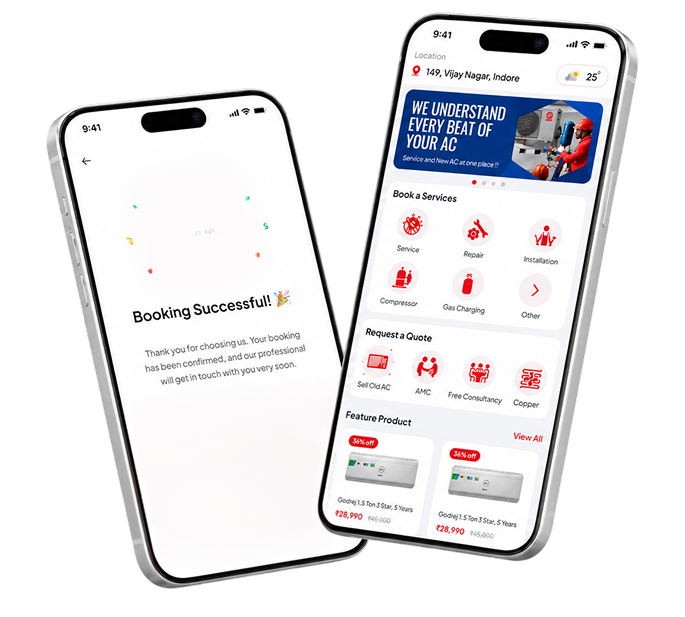
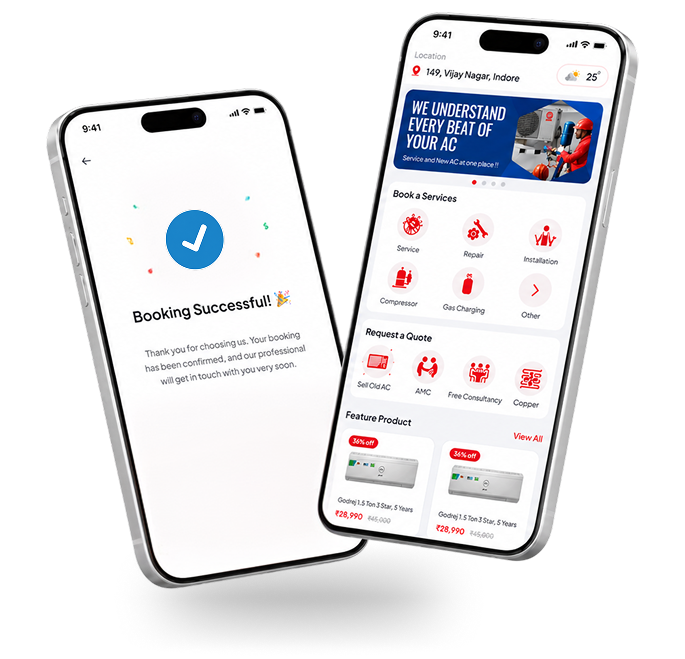
feat(contact us): redesign contact us section and make it responsive

diff --git a/src/components/organisms/CTASection.tsx b/src/components/organisms/CTASection.tsx
@@ -1,103 +1,174 @@
 "use client";
 
-import Image from "next/image";
-import { Input } from "@/components/atoms/Input";
-import { Button } from "@/components/atoms/Button";
-import { SectionHeader } from "@/components/molecules/SectionHeader";
-import { ASSETS } from "@/lib/data";
-import { useContactForm } from "@/hooks/useContactForm";
+import { useState } from "react";
 import { useInView } from "@/hooks/useInView";
+
+/* ── Figma assets (replace with /public paths before go-live) ── */
+const IMG_BG =
+  "https://www.figma.com/api/mcp/asset/46ebe8f4-5ece-4fff-aaa0-cb6bb324349f";
+const IMG_AC_UNIT =
+  "https://www.figma.com/api/mcp/asset/6f2fcfe7-202f-4902-aaff-f1c6c396381c";
+const ICON_USER =
+  "https://www.figma.com/api/mcp/asset/63c6e436-5fd4-4825-ad26-2cdbdb3bc7cc";
+const ICON_PHONE =
+  "https://www.figma.com/api/mcp/asset/8848dc26-5089-41fe-9f06-d85bb41055ae";
+const ICON_MAIL =
+  "https://www.figma.com/api/mcp/asset/87db6ebf-360f-4f8f-bc71-4a92b4af2e8e";
 
 export function CTASection() {
   const { ref, isInView } = useInView<HTMLElement>({ threshold: 0.1 });
-  const { data, loading, success, error, setField, submit } = useContactForm();
+  const [form, setForm] = useState({ name: "", phone: "", email: "" });
+  const [submitted, setSubmitted] = useState(false);
+
+  const handleSubmit = (e: React.FormEvent) => {
+    e.preventDefault();
+    setSubmitted(true);
+    setTimeout(() => setSubmitted(false), 3000);
+  };
 
   return (
     <section
       id="contact"
       ref={ref}
-      aria-label="Contact us"
-      className="relative w-full min-h-[600px] overflow-hidden"
+      aria-label="Contact Us"
+      className="relative w-full overflow-hidden bg-[#0d0d0d]"
+      style={{ aspectRatio: "16 / 9", minHeight: "clamp(400px, 80vh, 900px)" }}
     >
-      {/* Background */}
-      <Image
-        src={ASSETS.ctaBg}
-        alt="Contact section background"
-        fill
-        sizes="100vw"
-        className="object-cover object-center"
-      />
-      <div className="absolute inset-0 bg-gradient-to-r from-black/80 via-black/60 to-black/30" aria-hidden="true" />
+      {/* ── Full-bleed background (dark room + red beam) ── */}
+      <div className="absolute inset-0 pointer-events-none" aria-hidden="true">
+        {/* eslint-disable-next-line @next/next/no-img-element */}
+        <img
+          src={"./assets/images/contact_us_background.png"}
+          alt=""
+          className="w-full h-full object-cover"
+        />
+      </div>
 
-      <div className="relative z-10 section-padding py-section-y max-w-[1680px] mx-auto">
-        <div className="flex flex-col lg:flex-row lg:justify-end">
-          {/* Form card */}
-          <div
-            className={`w-full lg:w-auto lg:min-w-[420px] lg:max-w-[500px] bg-white/10 backdrop-blur-md border border-white/20 rounded-card p-8 sm:p-10 flex flex-col gap-8 transition-all duration-700 ${isInView ? "opacity-100 translate-x-0" : "opacity-0 translate-x-16"}`}
+      {/* ── AC Unit image — right-centre ── */}
+      <div
+        className="absolute pointer-events-none inset-y-0 right-0 flex items-center pr-6 sm:pr-[70px] lg:pr-[110px]"
+        aria-hidden="true"
+      >
+        {/* eslint-disable-next-line @next/next/no-img-element */}
+        <img
+          src={"./assets/images/ac_outdoor.png"}
+          alt=""
+          className="h-[60%] w-auto object-contain"
+        />
+      </div>
+
+      {/* ── Content ── */}
+      <div className="relative z-10 w-full max-w-[1600px] mx-auto flex items-center justify-start h-full px-6 sm:px-[70px] lg:px-[110px] py-8 md:py-12">
+        {/* ── Contact Card ── */}
+        <div
+          className={[
+            "bg-white rounded-[20px] border border-[#f5f5f5]",
+            "px-6 sm:px-[40px] py-7 sm:py-[30px]",
+            "flex flex-col gap-[35px]",
+            "w-full max-w-[470px]",
+            "shadow-[0_8px_48px_rgba(0,0,0,0.40)]",
+            "transition-all duration-700",
+            isInView ? "opacity-100 translate-y-0" : "opacity-0 translate-y-8",
+          ].join(" ")}
+        >
+          {/* Heading — Figma: Montserrat SemiBold Italic 50px / lh 70px */}
+          <h2 className="font-['Montserrat',sans-serif] font-semibold italic text-[clamp(32px,4vw,50px)] leading-[1.4] text-black whitespace-nowrap">
+            Contact us
+          </h2>
+
+          {/* Form + Submit */}
+          <form
+            onSubmit={handleSubmit}
+            className="flex flex-col gap-[45px] w-full"
+            noValidate
           >
-            <SectionHeader title="Contact us" align="left" titleClassName="text-brand-white italic" />
-
-            {success ? (
-              <div className="flex flex-col items-center gap-4 py-8 text-center">
-                <span className="text-5xl">✅</span>
-                <p className="font-montserrat font-semibold text-brand-white text-xl">
-                  We'll reach out shortly!
-                </p>
-              </div>
-            ) : (
-              <form
-                onSubmit={(e) => {
-                  e.preventDefault();
-                  submit();
-                }}
-                className="flex flex-col gap-5"
-                noValidate
-              >
-                <Input
-                  icon="👤"
+            {/* Input fields — gap-[14px] between each */}
+            <div className="flex flex-col gap-[14px] w-full">
+              {/* Name */}
+              <label className="sr-only" htmlFor="c-name">
+                Name
+              </label>
+              <div className="flex items-center gap-5 border border-[rgba(90,94,104,0.4)] rounded-[10px] pl-5 pr-4 py-[10px] focus-within:border-[#e31e25] transition-colors duration-200">
+                {/* eslint-disable-next-line @next/next/no-img-element */}
+                <img
+                  src={ICON_USER}
+                  alt=""
+                  className="w-[22px] h-[22px] shrink-0 object-contain"
+                  aria-hidden="true"
+                />
+                <input
+                  id="c-name"
+                  type="text"
                   placeholder="Name"
-                  value={data.name}
-                  onChange={(e) => setField("name", e.target.value)}
-                  aria-label="Your name"
+                  value={form.name}
+                  onChange={(e) => setForm({ ...form, name: e.target.value })}
                   required
+                  className="flex-1 bg-transparent font-['Montserrat',sans-serif] font-medium text-[clamp(16px,1.5vw,22px)] leading-[40px] text-[#161616] placeholder:text-[#161616]/40 outline-none min-w-0"
                 />
-                <Input
-                  icon="📞"
-                  placeholder="Phone No."
+              </div>
+
+              {/* Phone */}
+              <label className="sr-only" htmlFor="c-phone">
+                Phone Number
+              </label>
+              <div className="flex items-center gap-5 border border-[rgba(90,94,104,0.4)] rounded-[10px] pl-5 pr-4 py-[10px] focus-within:border-[#e31e25] transition-colors duration-200">
+                {/* eslint-disable-next-line @next/next/no-img-element */}
+                <img
+                  src={ICON_PHONE}
+                  alt=""
+                  className="w-[22px] h-[22px] shrink-0 object-contain"
+                  aria-hidden="true"
+                />
+                <input
+                  id="c-phone"
                   type="tel"
-                  value={data.phone}
-                  onChange={(e) => setField("phone", e.target.value)}
-                  aria-label="Your phone number"
-                  required
+                  placeholder="Phone No."
+                  value={form.phone}
+                  onChange={(e) => setForm({ ...form, phone: e.target.value })}
+                  className="flex-1 bg-transparent font-['Montserrat',sans-serif] font-medium text-[clamp(16px,1.5vw,22px)] leading-[40px] text-[#161616] placeholder:text-[#161616]/40 outline-none min-w-0"
                 />
-                <Input
-                  icon="✉"
-                  placeholder="Email"
+              </div>
+
+              {/* Email */}
+              <label className="sr-only" htmlFor="c-email">
+                Email
+              </label>
+              <div className="flex items-center gap-5 border border-[rgba(90,94,104,0.4)] rounded-[10px] pl-5 pr-4 py-[10px] focus-within:border-[#e31e25] transition-colors duration-200">
+                {/* eslint-disable-next-line @next/next/no-img-element */}
+                <img
+                  src={ICON_MAIL}
+                  alt=""
+                  className="w-[22px] h-[22px] shrink-0 object-contain"
+                  aria-hidden="true"
+                />
+                <input
+                  id="c-email"
                   type="email"
-                  value={data.email}
-                  onChange={(e) => setField("email", e.target.value)}
-                  aria-label="Your email address"
-                  required
+                  placeholder="Email"
+                  value={form.email}
+                  onChange={(e) => setForm({ ...form, email: e.target.value })}
+                  className="flex-1 bg-transparent font-['Montserrat',sans-serif] font-medium text-[clamp(16px,1.5vw,22px)] leading-[40px] text-[#161616] placeholder:text-[#161616]/40 outline-none min-w-0"
                 />
+              </div>
+            </div>
 
-                {error && (
-                  <p role="alert" className="text-brand-primary text-sm font-medium">
-                    ⚠ {error}
-                  </p>
-                )}
-
-                <Button
-                  type="submit"
-                  variant="ghost"
-                  size="lg"
-                  fullWidth
-                  disabled={loading}
-                >
-                  {loading ? "Sending…" : "Submit"}
-                </Button>
-              </form>
-            )}
-          </div>
+            {/* Submit — Figma: border-[#e31e25] rounded-[50px] px-[78px] py-[19px] text-[#e31e25] SemiBold 20px */}
+            <button
+              type="submit"
+              className="
+                w-full
+                border border-[#e31e25] rounded-[50px]
+                px-[78px] py-[19px]
+                font-['Montserrat',sans-serif] font-semibold text-[clamp(16px,1.4vw,20px)] text-[#e31e25]
+                bg-transparent
+                hover:bg-[#e31e25] hover:text-white
+                active:bg-[#c8181e] active:border-[#c8181e]
+                transition-all duration-200
+              "
+            >
+              {submitted ? "Submitted ✓" : "Submit"}
+            </button>
+          </form>
         </div>
       </div>
     </section>
